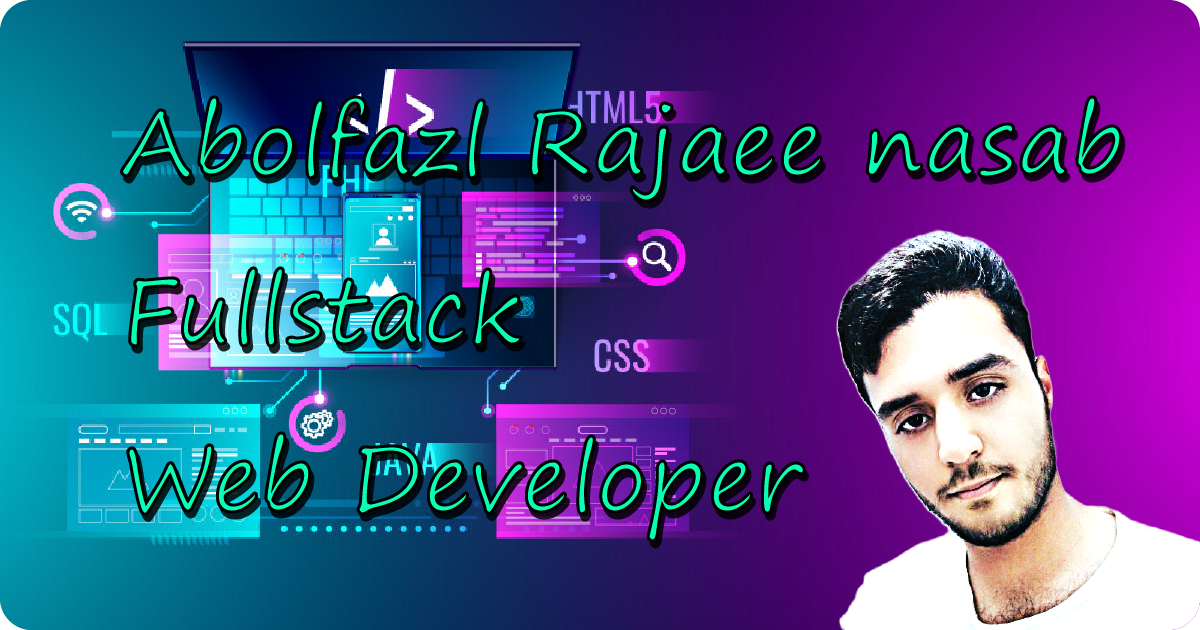
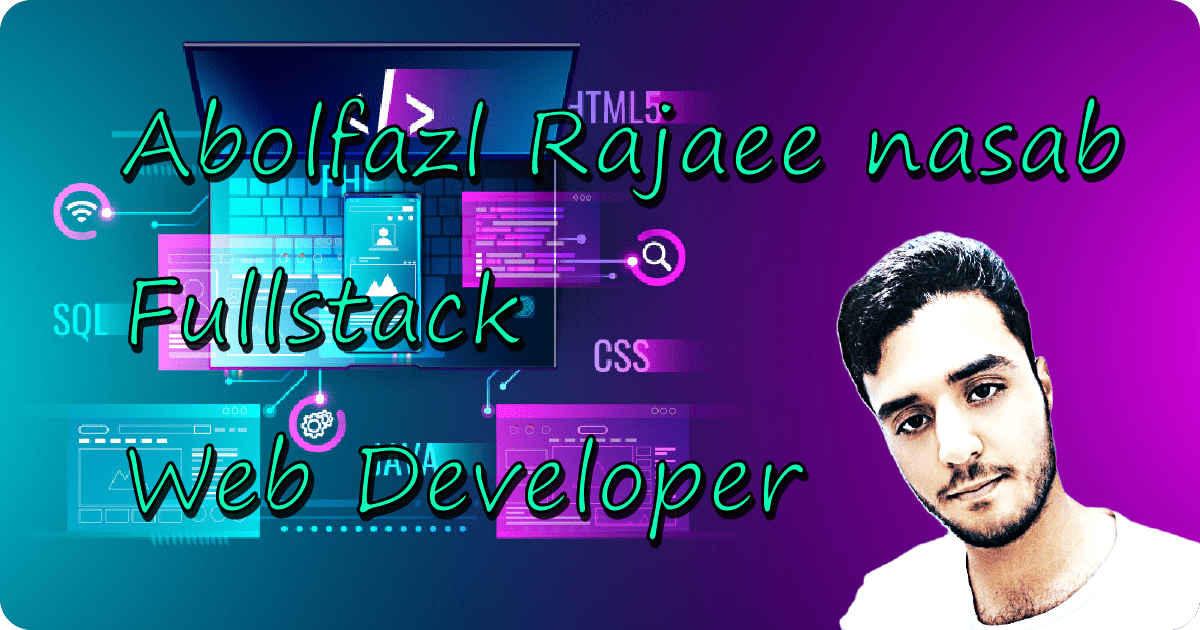
fix - Decrease image sizes and handle images lazy loading

diff --git a/src/components/Hero.jsx b/src/components/Hero.jsx
@@ -1,5 +1,5 @@
 import { useEffect } from "react"
-import heroImg from "@assets/hero.png"
+import heroImg from "@assets/hero.webp"
 import { FontAwesomeIcon } from "@fortawesome/react-fontawesome"
 import { faEnvelope, faLocationDot, faPhone } from "@fortawesome/free-solid-svg-icons"
 import { faGithub, faLinkedin, faTelegram } from "@fortawesome/fontawesome-free-brands"
@@ -65,7 +65,7 @@ export default function Hero({ ...props }) {
                         <div className="grow md:grow-0 w-60 md:w-80 flex flex-col items-center" data-aos="fade-up" data-aos-duration="800" data-aos-delay="600">
                             <div className="rounded-full p-2 bg-gradient-to-tr from-[#fc466b] to-[#3f5efb] w-full">
                                 <div class="rounded-full overflow-hidden bg-base-300  ">
-                                    <img src={heroImg} alt="" class="w-full h-full object-cover" />
+                                    <img src={heroImg} loading="lazy" alt="" class="w-full h-full object-cover" />
                                 </div>
                             </div>
                             <div className="rating">

diff --git a/src/components/Information.jsx b/src/components/Information.jsx
@@ -1,4 +1,4 @@
-import devImg from '@assets/patrik.png'
+import devImg from '@assets/patrik.webp'
 import { faLaravel, faPhp } from '@fortawesome/fontawesome-free-brands'
 import { faDownload, faInfoCircle } from '@fortawesome/free-solid-svg-icons'
 import { FontAwesomeIcon } from '@fortawesome/react-fontawesome'
@@ -9,7 +9,7 @@ export default function Information({ ...props }) {
                 <div class="row flex flex-wrap overflow-hidden">
                     <div class="w-full box-border md:w-1/2">
                         <div class="about-img max-w-96  max-md:mx-auto" data-aos="fade-right" data-aos-duration="800" data-aos-delay="400">
-                            <img src={devImg} alt="Developer Image" class="img-fluid h-full" />
+                            <img src={devImg} loading="lazy" alt="Developer Image" class="img-fluid h-full" />
                         </div>
                     </div>
                     <div class="w-full box-border md:w-1/2">

diff --git a/src/parts/Header.jsx b/src/parts/Header.jsx
@@ -1,11 +1,11 @@
 import Navigation from "../components/Navigation";
-import bannerImg from "@assets/abolfazl.png"
+import bannerImg from "@assets/abolfazl.webp"
 
 export default function Header({ ...props }) {
     return (
         <header class="w-full z-50 sticky -top-28" id="mh-header">
             <section className="brand text-center h-28">
-                <img src={bannerImg} alt="abolfazl" className="mx-auto h-full"/>
+                <img src={bannerImg} loading="lazy" alt="abolfazl" className="mx-auto h-full"/>
             </section>
             <Navigation></Navigation>
         </header>
